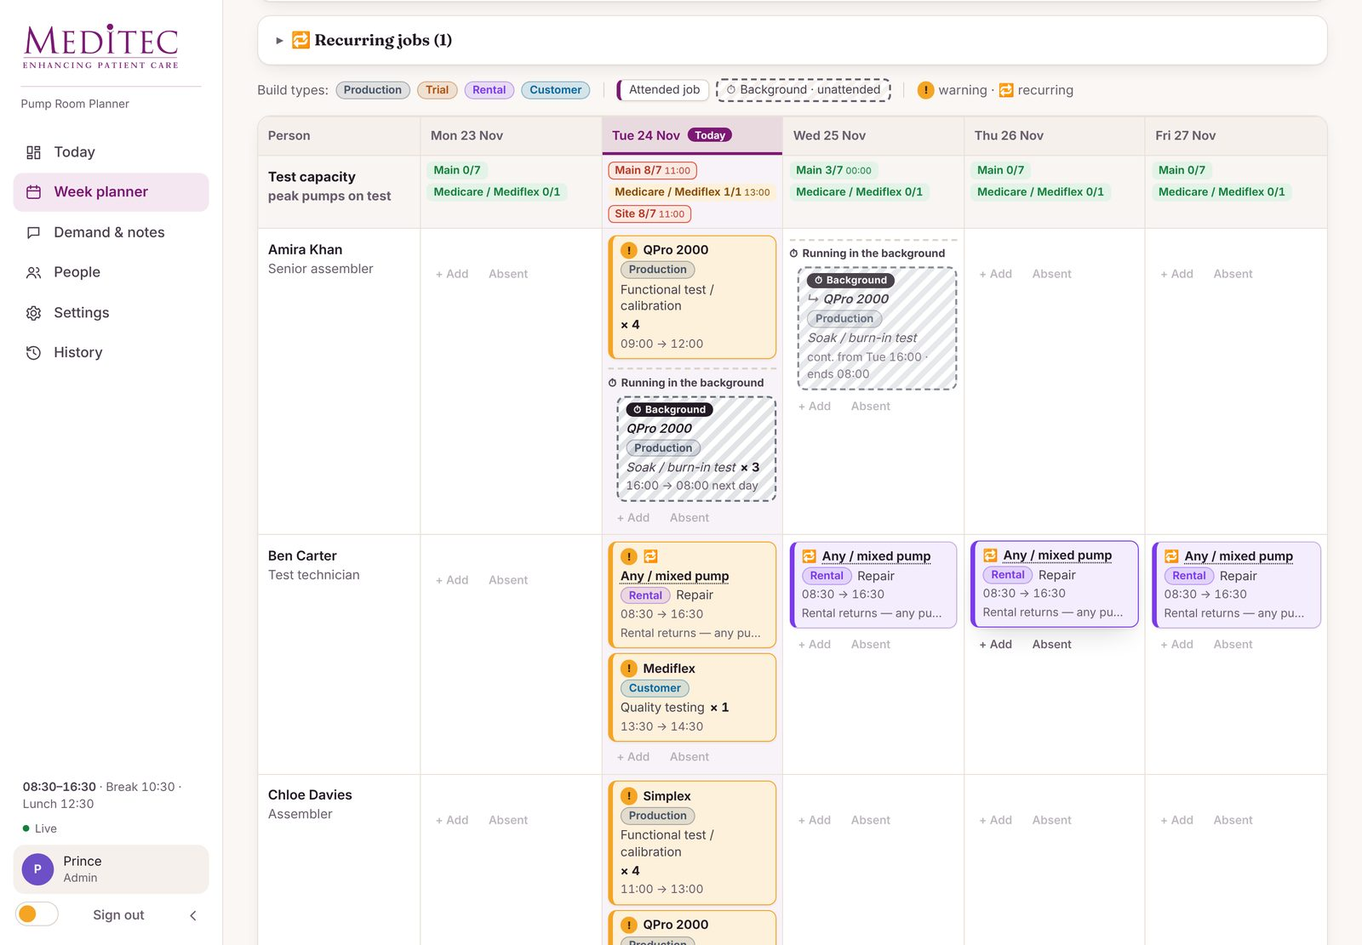
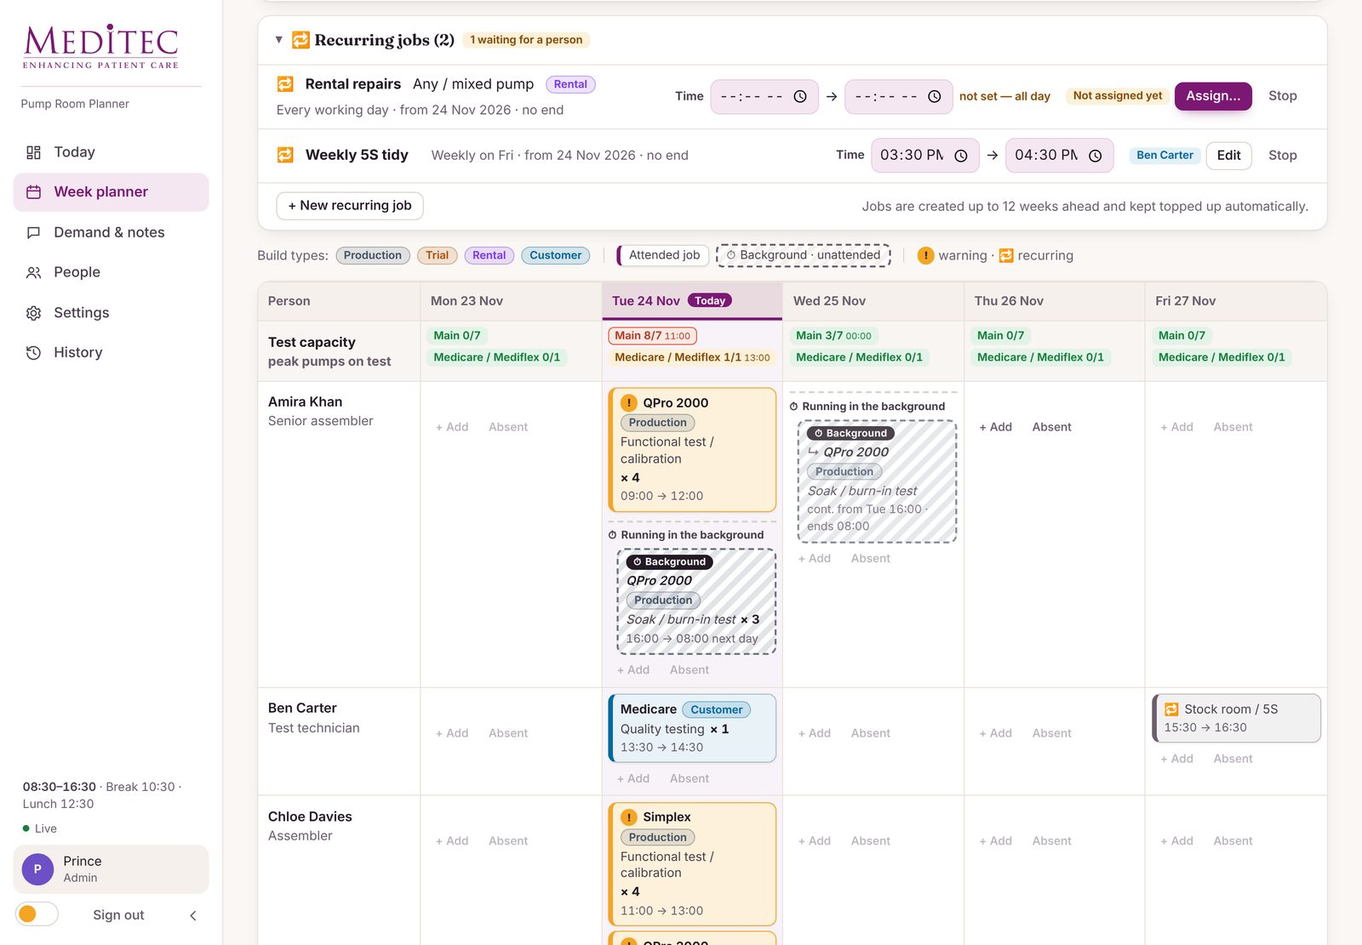
Phase 8 rules: separate test areas, same-pump sharing, recurring times
- No site-wide limit: each test area is separate; Main area max 7 is
  absolute and Medicare/Mediflex does not count towards it
- Calibration + quality testing count once only on the same pump
  (same model); different models add up
- MATS / Bari-Med 1 in no limit group (count towards Main only)
- Rental repairs seeded without times; times set when assigning and
  editable on the recurring panel (from today / all) and per job
  (this one / this and future / all)
- Migration 006 applies these to existing databases without
  overwriting your own Settings; 005 updated for fresh installs
- rls_check.sql: 4 rule checks (104 total); capacity unit tests and
  browser suite updated; [hidden] elements always hidden

Claude-Session: https://claude.ai/code/session_01XNSAvtXNy8aPh6HHrb7pc3

diff --git a/src/pages/settings.js b/src/pages/settings.js
@@ -268,28 +268,19 @@ function editRef(cfg, row, onSaved, nextSortOrder) {
 
 // ----------------------------------------------------- test areas & limits
 async function renderTestAreas(card, reloadAll) {
-  const [areas, limits, limitModels, shared, models, tasks, settings] = await Promise.all([
+  const [areas, limits, limitModels, shared, models, tasks] = await Promise.all([
     supabase.from('test_areas').select('*').order('sort_order').order('name'),
     supabase.from('test_limits').select('*').order('sort_order').order('name'),
     supabase.from('test_limit_models').select('test_limit_id, pump_model_id'),
     supabase.from('test_area_shared_tasks').select('test_area_id, task_id'),
     supabase.from('pump_models').select('id, name, short_code, test_area_id, active').order('sort_order'),
     supabase.from('tasks').select('id, name, is_testing, active').order('sort_order'),
-    supabase.from('app_settings').select('max_pumps_on_test').eq('id', 1).single(),
   ]);
-  const err = [areas, limits, limitModels, shared, models, tasks, settings].find((r) => r.error)?.error;
+  const err = [areas, limits, limitModels, shared, models, tasks].find((r) => r.error)?.error;
   if (reportError(err, 'Loading test areas')) return;
   const modelName = new Map(models.data.map((m) => [m.id, m.name]));
   const taskName = new Map(tasks.data.map((t) => [t.id, t.name]));
   const reload = () => renderTestAreas(card, reloadAll);
-
-  const siteMax = h('input', { type: 'number', min: 1, max: 99, value: settings.data.max_pumps_on_test, style: 'width:5.5rem' });
-  const saveSite = h('button', { class: 'btn btn-sm', onclick: async () => {
-    const v = Number(siteMax.value);
-    if (!Number.isInteger(v) || v < 1) { toast('Enter a whole number of pumps.', 'error'); return; }
-    const { error } = await supabase.from('app_settings').update({ max_pumps_on_test: v }).eq('id', 1);
-    if (!reportError(error, 'Saving')) toast('Site-wide limit saved.', 'success');
-  } }, 'Save');
 
   const areaBlock = (a) => {
     const aModels = models.data.filter((m) => m.test_area_id === a.id).map((m) => m.short_code || m.name);
@@ -298,10 +289,10 @@ async function renderTestAreas(card, reloadAll) {
     return h('div', { class: `area-block ${a.active ? '' : 'inactive'}` },
       h('div', { class: 'area-head' },
         h('div', {},
-          h('b', { class: 'ref-name' }, a.name), h('span', { class: 'tag tag-accent' }, `max ${a.max_pumps} at once`),
+          h('b', { class: 'ref-name' }, a.name), h('span', { class: 'tag tag-accent' }, `max ${a.max_pumps} at once — absolute for this area`),
           a.active ? null : h('span', { class: 'tag tag-muted' }, 'inactive'),
           h('div', { class: 'muted small' }, `Models: ${aModels.join(', ') || 'none yet (set a default test area on each pump model)'}`),
-          aShared.length ? h('div', { class: 'muted small' }, `Counted once when run together: ${aShared.join(' + ')}`) : null,
+          aShared.length ? h('div', { class: 'muted small' }, `Counted once when run together on the same pump: ${aShared.join(' + ')}`) : null,
         ),
         h('div', { class: 'ref-actions' },
           h('button', { class: 'btn btn-sm', onclick: () => editArea(a) }, 'Edit'),
@@ -335,7 +326,7 @@ async function renderTestAreas(card, reloadAll) {
         field('Notes', notes),
         h('fieldset', { class: 'skills-fieldset' }, h('legend', {}, 'Tasks that run together on the same pumps (count once)'),
           h('div', { class: 'check-grid' }, sharedBoxes.map((b) => b.el)),
-          h('p', { class: 'muted small' }, 'E.g. calibration and quality testing on Medicare / Mediflex: running both at once is not a clash.')),
+          h('p', { class: 'muted small' }, 'E.g. calibration and quality testing on the same Medicare or Mediflex pump at the same time count as one pump, not a clash. Different pump models still add up.')),
         active.el, error),
       actions: [{ label: 'Cancel' }, { label: 'Save', variant: 'primary', onClick: async () => {
         const values = { name: name.value.trim(), max_pumps: Number(max.value), notes: notes.value.trim() || null, active: active.input.checked };
@@ -415,8 +406,7 @@ async function renderTestAreas(card, reloadAll) {
     h('div', { class: 'card-head' },
       h('h2', {}, 'Test areas & limits'),
       h('button', { class: 'btn btn-primary btn-sm', onclick: () => editArea(null) }, '+ Add test area')),
-    h('p', { class: 'muted small' }, 'Pumps are tested several at a time. The planner adds up testing jobs (quantity = pumps on test) at overlapping times — including overnight and background jobs — and warns when an area, a limit group or the site-wide maximum is exceeded. Mark testing tasks under Tasks, and give each pump model a default test area.'),
-    h('div', { class: 'site-max' }, h('span', {}, 'All areas together: max'), siteMax, h('span', {}, 'pumps on test at once'), saveSite),
+    h('p', { class: 'muted small' }, 'Pumps are tested several at a time. The planner adds up testing jobs (quantity = pumps on test) at overlapping times — including overnight and background jobs — and warns when an area or a limit group is exceeded. Each area is separate: its maximum is the absolute limit for that area. Models without a limit group (e.g. MATS, Bari-Med 1) just count towards their area. Mark testing tasks under Tasks, and give each pump model a default test area.'),
     areas.data.length ? h('div', { class: 'stack' }, areas.data.map(areaBlock)) : h('p', { class: 'empty' }, 'No test areas yet.'),
   );
 }

diff --git a/src/pages/planner.js b/src/pages/planner.js
@@ -6,7 +6,7 @@ import { loadSummaryDemand, summaryCard } from './summary.js';
 import { isBackground, coversDay, endDateOf, timeLabel, clashes, hm, pumpLabel, ABSENCE_TYPES } from '../jobs.js';
 import { capacityConfig, capacityForDay, level } from '../capacity.js';
 import { describe as describeRepeat, matches as repeatMatches } from '../recurring.js';
-import { editAssignment, editTemplate, deleteTemplate } from './jobEditor.js';
+import { editAssignment, editTemplate, deleteTemplate, saveTemplateTimes } from './jobEditor.js';
 import {
   toISO, fromISO, addDays, mondayOf, today, isoWeek,
   fmtDayShort, fmtDayLong, fmtWeekday, fmtRange, fmtDate,
@@ -52,7 +52,6 @@ export async function loadWeek(monday) {
     limits: supabase.from('test_limits').select('id, test_area_id, name, max_pumps, active, sort_order').order('sort_order').order('name'),
     limitModels: supabase.from('test_limit_models').select('test_limit_id, pump_model_id'),
     shared: supabase.from('test_area_shared_tasks').select('test_area_id, task_id'),
-    settings: supabase.from('app_settings').select('max_pumps_on_test').eq('id', 1).maybeSingle(),
     recurring: supabase.from('recurring_jobs').select('*').eq('active', true).order('created_at'),
   };
   const keys = Object.keys(q);
@@ -77,7 +76,7 @@ export async function loadWeek(monday) {
     areas: r.areas,
     capacity: capacityConfig({
       areas: r.areas, limits: r.limits, limitModels: r.limitModels, sharedTasks: r.shared,
-      models: r.models, tasks: r.tasks, siteMax: r.settings?.max_pumps_on_test ?? 7,
+      models: r.models, tasks: r.tasks,
     }),
   };
 }
@@ -270,9 +269,8 @@ export async function renderPlanner(main) {
     for (const l of c.limits.filter((x) => x.peak > x.max)) {
       pills.push(h('span', { class: 'cap-pill cap-over', title: `${l.limit.name}: ${l.peak} of ${l.max} at ${l.at}` }, `${l.limit.name} ${l.peak}/${l.max}`, h('small', {}, ` ${l.at}`)));
     }
-    if (c.site.peak > c.site.max) pills.push(h('span', { class: 'cap-pill cap-over', title: `All areas together: ${c.site.peak} of ${c.site.max} at ${c.site.at}` }, `Site ${c.site.peak}/${c.site.max}`, h('small', {}, ` ${c.site.at}`)));
     const detail = [...c.limits.map((l) => `${l.limit.name}: peak ${l.peak}/${l.max}${l.peak ? ` at ${l.at}` : ''}`),
-      `All areas: peak ${c.site.peak}/${c.site.max}`, ...[...c.models.values()].map((m) => `${m.name}: ${m.peak} at ${m.at}`)].join('\n');
+      ...[...c.models.values()].map((m) => `${m.name}: ${m.peak} at ${m.at}`)].join('\n');
     return h('div', { class: 'cap-cell', title: detail }, pills.length ? pills : h('span', { class: 'muted small' }, '—'));
   };
   const hasAreas = data.capacity.areas.length > 0;
@@ -385,14 +383,31 @@ function recurringPanel(ctx, personById, reload) {
           const task = ctx.taskById.get(r.task_id);
           const person = personById.get(r.person_id);
           const type = ctx.typeById.get(r.build_type_id);
+          const name = r.title || task?.name || 'Recurring job';
+          const hasJobs = Boolean(r.person_id);
+          let times;
+          if (auth.isAdmin) {
+            const st = h('input', { type: 'time', step: 300, value: hm(r.start_time) ?? '', 'aria-label': `Start time for ${name}` });
+            const et = h('input', { type: 'time', step: 300, value: hm(r.end_time) ?? '', 'aria-label': `End time for ${name}` });
+            const save = h('button', { class: 'btn btn-sm btn-primary', hidden: true,
+              onclick: () => saveTemplateTimes({ template: r, start: st.value, end: et.value, hasJobs, onSaved: reload }) }, 'Save times');
+            const changed = () => { save.hidden = st.value === (hm(r.start_time) ?? '') && et.value === (hm(r.end_time) ?? ''); };
+            st.addEventListener('input', changed); et.addEventListener('input', changed);
+            times = h('div', { class: 'recurring-times' },
+              h('span', { class: 'rt-label' }, 'Time'), st, h('span', { 'aria-hidden': 'true' }, '→'), et, save,
+              !r.start_time ? h('span', { class: 'rt-hint' }, 'not set — all day') : null);
+          } else {
+            times = h('span', { class: 'muted small' }, r.start_time ? `${hm(r.start_time)}–${hm(r.end_time) || '…'}` : 'All day');
+          }
           return h('li', {}, h('div', { class: 'recurring-row' },
             h('div', { class: 'demand-row-main' },
               h('span', { 'aria-hidden': 'true' }, '🔁'),
-              h('b', {}, r.title || task?.name || 'Recurring job'),
+              h('b', {}, name),
               h('span', {}, ctx.pump(r) || ''),
               type ? typeTag(type) : null,
-              h('span', { class: 'muted small' }, `${describeRepeat(r)}${r.start_time ? ` · ${hm(r.start_time)}–${hm(r.end_time) || '…'}` : ''}`),
+              h('span', { class: 'muted small' }, describeRepeat(r)),
             ),
+            times,
             h('div', { class: 'demand-badges' },
               person ? h('span', { class: 'status status-planned' }, person.name) : h('span', { class: 'status status-unassigned' }, 'Not assigned yet'),
               auth.isAdmin ? h('button', { class: `btn btn-sm ${person ? '' : 'btn-primary'}`, onclick: () => editTemplate({ ctx, template: r, personById, onSaved: reload }) }, person ? 'Edit' : 'Assign…') : null,

diff --git a/src/capacity.js b/src/capacity.js
@@ -6,12 +6,16 @@
 // jobs count like any other.
 //
 // Inside an area, tasks marked as sharing pumps (e.g. calibration + quality
-// testing on Medicare / Mediflex) run on the same pumps: together they count as
-// the largest of them, not the sum.
+// testing on Medicare / Mediflex) run on the SAME pump at the same time: for the
+// same pump model they count as the largest of them, not the sum. Different
+// models are different pumps and do add up.
+//
+// Each area's maximum is absolute for that area (Main test area: 7). Areas are
+// separate — there is no limit across areas.
 import { intervalOf } from './jobs.js';
 
 /** Build the lookup structure from loaded rows. */
-export function capacityConfig({ areas = [], limits = [], limitModels = [], sharedTasks = [], models = [], tasks = [], siteMax = 7 }) {
+export function capacityConfig({ areas = [], limits = [], limitModels = [], sharedTasks = [], models = [], tasks = [] }) {
   const modelArea = new Map(models.filter((m) => m.test_area_id).map((m) => [m.id, m.test_area_id]));
   const shared = new Map();
   for (const s of sharedTasks) {
@@ -29,14 +33,13 @@ export function capacityConfig({ areas = [], limits = [], limitModels = [], shar
     modelArea,
     modelName: new Map(models.map((m) => [m.id, m.short_code || m.name])),
     testing: new Set(tasks.filter((t) => t.is_testing).map((t) => t.id)),
-    siteMax,
   };
 }
 
 export const isTestingJob = (j, cfg) =>
   cfg.testing.has(j.task_id) && j.pump_model_id && cfg.modelArea.has(j.pump_model_id) && (j.qty_target || 0) > 0;
 
-/** Pumps on test among `active` jobs that pass `keep` (shared tasks count once per area). */
+/** Pumps on test among `active` jobs that pass `keep` (shared tasks count once per area and pump model). */
 function count(active, cfg, keep) {
   let total = 0;
   const sharedMax = new Map();
@@ -44,7 +47,8 @@ function count(active, cfg, keep) {
     if (!keep(j)) continue;
     const area = cfg.modelArea.get(j.pump_model_id);
     const q = j.qty_target || 0;
-    if (cfg.shared.get(area)?.has(j.task_id)) sharedMax.set(area, Math.max(sharedMax.get(area) || 0, q));
+    const key = `${area}|${j.pump_model_id}`;
+    if (cfg.shared.get(area)?.has(j.task_id)) sharedMax.set(key, Math.max(sharedMax.get(key) || 0, q));
     else total += q;
   }
   for (const v of sharedMax.values()) total += v;
@@ -58,7 +62,7 @@ const hhmmOf = (minutesSinceEpoch) => {
 
 /**
  * Peaks within [from, to) (minutes since epoch, as from intervalOf).
- * Returns { site, areas[], limits[], models: Map, jobMsgs: Map(jobId -> [messages]) }.
+ * Returns { areas[], limits[], models: Map, jobMsgs: Map(jobId -> [messages]) }.
  */
 export function capacityInWindow(jobs, cfg, from, to) {
   const tj = [];
@@ -69,7 +73,6 @@ export function capacityInWindow(jobs, cfg, from, to) {
   }
   const pts = [...new Set([from, ...tj.map((x) => x.s), ...tj.map((x) => x.e)])].filter((p) => p >= from && p < to).sort((a, b) => a - b);
 
-  const site = { peak: 0, at: null, max: cfg.siteMax };
   const areas = cfg.areas.map((a) => ({ area: a, peak: 0, at: null, max: a.max_pumps }));
   const limits = cfg.limits.map((l) => ({ limit: l, area: cfg.areaById.get(l.test_area_id), peak: 0, at: null, max: l.max_pumps }));
   const models = new Map();
@@ -87,10 +90,6 @@ export function capacityInWindow(jobs, cfg, from, to) {
     const active = tj.filter((x) => x.s <= p && x.e > p).map((x) => x.j);
     if (!active.length) continue;
     const at = hhmmOf(p);
-
-    const total = count(active, cfg, () => true);
-    if (total > site.peak) Object.assign(site, { peak: total, at });
-    if (total > cfg.siteMax) flag(active, () => true, `Site limit: ${total} pumps on test at ${at} (max ${cfg.siteMax})`);
 
     for (const a of areas) {
       const inArea = (j) => cfg.modelArea.get(j.pump_model_id) === a.area.id;
@@ -110,7 +109,7 @@ export function capacityInWindow(jobs, cfg, from, to) {
       if (!cur || n > cur.peak) models.set(m, { peak: n, at, name: cfg.modelName.get(m) });
     }
   }
-  return { site, areas, limits, models, jobMsgs };
+  return { areas, limits, models, jobMsgs };
 }
 
 /** Capacity for one calendar day ("YYYY-MM-DD"). */

diff --git a/src/pages/jobEditor.js b/src/pages/jobEditor.js
@@ -470,10 +470,13 @@ export function editTemplate({ ctx, template, personById, onSaved }) {
     title: template ? (template.person_id ? '🔁 Edit recurring job' : '🔁 Assign recurring job') : '🔁 New recurring job',
     body: h('div', { class: 'stack' },
       h('div', { class: 'form-grid form-grid-2' }, field('Name', title), field('Person', personSel, 'Jobs are created once a person is chosen.')),
+      h('div', { class: 'form-grid form-grid-2 times-first' },
+        field('Start time', startTime, 'Set the time yourself — leave empty for all day.'),
+        field('End time', endTime, 'Earlier than start = runs overnight.')),
       field('Task / operation', taskSel),
       h('div', { class: 'form-grid form-grid-2' }, field('Pump model', pumps.modelSel), field('Build type', typeSel)),
       pumps.mixBox,
-      h('div', { class: 'form-grid form-grid-3' }, field('Quantity', qty), field('Start time', startTime), field('End time', endTime)),
+      field('Quantity', qty),
       h('div', { class: 'form-grid form-grid-2' }, field('Runs', bgSel), field('Equipment', equipSel)),
       h('fieldset', { class: 'skills-fieldset' }, h('legend', {}, 'Repeat'), field('Starts on', startDate), repeat.el),
       field('Notes', notes),
@@ -536,4 +539,39 @@ export async function deleteTemplate({ template, onDone }) {
   if (reportError(error, 'Stopping')) return;
   toast('Recurring job stopped.', 'success');
   onDone();
+}
+
+/** Change the times of a recurring job from the 🔁 panel. */
+export async function saveTemplateTimes({ template, start, end, hasJobs, onSaved }) {
+  if (end && !start) { toast('Add a start time (or clear the end time).', 'error'); return; }
+  const times = { start_time: start || null, end_time: end || null };
+  let scope = 'template';
+  if (hasJobs) {
+    scope = await new Promise((resolve) => {
+      let done = false;
+      const pickScope = (v) => () => { done = true; resolve(v); };
+      const { dialog } = openModal({
+        title: 'Change times',
+        body: h('div', { class: 'stack-sm' },
+          h('p', {}, `New times for “${template.title || 'Recurring job'}”: ${start || 'all day'}${end ? ` – ${end}` : ''}.`),
+          h('p', { class: 'muted small' }, 'Jobs you changed individually (“this one only”) keep their own times. To change just one day, open that job in the planner.')),
+        actions: [
+          { label: 'Cancel', onClick: pickScope(null) },
+          { label: 'From today onwards', onClick: pickScope('future') },
+          { label: 'All jobs in the series', variant: 'primary', onClick: pickScope('all') },
+        ],
+      });
+      dialog.addEventListener('close', () => { if (!done) resolve(null); });
+    });
+    if (!scope) return;
+  }
+  let { error } = await supabase.from('recurring_jobs').update(times).eq('id', template.id);
+  if (!error && scope !== 'template') {
+    let q = supabase.from('assignments').update(times).eq('recurring_id', template.id).eq('recurring_detached', false);
+    if (scope === 'future') q = q.gte('recurring_date', toISO(today()));
+    ({ error } = await q);
+  }
+  if (reportError(error, 'Saving times')) return;
+  toast(scope === 'future' ? 'Times changed from today onwards.' : scope === 'all' ? 'Times changed for the whole series.' : 'Times saved.', 'success');
+  onSaved();
 }

diff --git a/src/styles.css b/src/styles.css
@@ -55,6 +55,7 @@
 
 /* ---------------------------------------------------------------- base */
 * { box-sizing: border-box; }
+[hidden] { display: none !important; }
 html, body { margin: 0; }
 body {
   background: var(--bg); color: var(--text);
@@ -728,7 +729,6 @@ button.absence { cursor: pointer; }
 .mix-item input { width: 4.2rem; padding: .3rem .45rem; }
 
 /* settings: test areas */
-.site-max { display: flex; align-items: center; gap: .5rem; flex-wrap: wrap; margin: .6rem 0 1rem; font-size: .92rem; }
 .area-block { border: 1px solid var(--line); border-radius: 12px; padding: .8rem 1rem; }
 .area-block.inactive { opacity: .6; }
 .area-head { display: flex; justify-content: space-between; align-items: flex-start; gap: .5rem 1rem; flex-wrap: wrap; }
@@ -741,3 +741,10 @@ button.absence { cursor: pointer; }
   .cap-pill { font-size: 6.5pt; padding: 0 1mm; }
   .recurring-panel { display: none !important; }
 }
+
+/* recurring panel: editable times */
+.recurring-times { display: flex; align-items: center; gap: .4rem; flex-wrap: wrap; }
+.recurring-times input[type=time] { width: 7.2rem; padding: .32rem .5rem; font-variant-numeric: tabular-nums; border-color: var(--brand-line); background: var(--brand-soft); }
+.recurring-times .rt-label { font-size: .78rem; font-weight: 650; color: var(--ink-2); }
+.recurring-times .rt-hint { font-size: .76rem; color: var(--amber); font-weight: 600; }
+.times-first { padding: .6rem .7rem; border-radius: 12px; background: var(--brand-soft); border: 1px solid var(--brand-line); }

diff --git a/src/pages/today.js b/src/pages/today.js
@@ -326,8 +326,7 @@ export async function renderToday(main) {
             h('div', { class: 'ta-bar' }, fillEl),
             h('div', { class: `ta-peak cap-${level(a.peak, a.max)}` }, a.peak ? `Peak today ${a.peak}/${a.max} at ${a.at}` : 'Nothing on test today'));
         }),
-        capToday.limits.filter((l) => l.peak > l.max).map((l) => h('p', { class: 'warn-box' }, `⚠ ${l.limit.name}: ${l.peak}/${l.max} at ${l.at}`)),
-        capToday.site.peak > capToday.site.max ? h('p', { class: 'warn-box' }, `⚠ All areas together: ${capToday.site.peak}/${capToday.site.max} at ${capToday.site.at}`) : null)
+        capToday.limits.filter((l) => l.peak > l.max).map((l) => h('p', { class: 'warn-box' }, `⚠ ${l.limit.name}: ${l.peak}/${l.max} at ${l.at}`)))
       : h('p', { class: 'muted' }, auth.isAdmin ? 'Set up test areas in Settings.' : 'No test areas set up.'),
   );
   const updateTestNow = (m) => {

diff --git a/README.md b/README.md
@@ -34,8 +34,9 @@ Live site (once deployed): `https://meditecmedicalai-gif.github.io/meditec-produ
    [`003_background_jobs.sql`](supabase/migrations/003_background_jobs.sql) (background / overnight jobs, equipment), then
    [`004_realtime.sql`](supabase/migrations/004_realtime.sql) (live updates; refreshed build-type colours), then
    [`005_capacity_recurring.sql`](supabase/migrations/005_capacity_recurring.sql) (test capacity, "Any / mixed pump",
-   recurring jobs). Its last result column says **Live updates: OK** — or lists tables to switch on by hand (see
-   *Live updates* below).
+   recurring jobs; its last result column says **Live updates: OK** — or lists tables to switch on by hand, see
+   *Live updates* below), then [`006_capacity_rules.sql`](supabase/migrations/006_capacity_rules.sql) (agreed
+   capacity rules; never overwrites your own Settings).
 
 ### 3. Lock down sign-in
 1. **Authentication → Sign In / Providers** (called *Providers* in some versions):
@@ -183,12 +184,14 @@ Pumps are tested several at a time, so the planner adds up **testing jobs** that
 - **Testing tasks** are marked in Settings → Tasks (🧪): Functional test / calibration, Quality testing,
   Soak / burn-in test. For these, **quantity = number of pumps on test**.
 - Each **pump model has a default test area** (Settings → Pump models).
-- **Test areas** (Settings → Test areas & limits) each have a maximum: *Main test area* 7 (QPro 2000,
-  Simplex, MediAir, MediAir Turn, MATS, Bari-Med 1) and *Medicare / Mediflex test area* 1.
-- **Limit groups** inside an area: QPro 2000 max 7; MediAir + Simplex max 6 combined; MediAir Turn max 3.
-- **Tasks that share pumps**: in the Medicare / Mediflex area, calibration and quality testing can run at
-  the same time — together they count once, not as a clash.
-- **All areas together**: max 7 pumps on test at once (editable).
+- **Test areas** (Settings → Test areas & limits) are **separate**, each with its own absolute maximum:
+  *Main test area* **7** (QPro 2000, Simplex, MediAir, MediAir Turn, MATS, Bari-Med 1) and
+  *Medicare / Mediflex test area* **1**. The Medicare / Mediflex area does not count towards the Main 7, and
+  there is no limit across areas.
+- **Limit groups** inside the Main area: QPro 2000 max 7; MediAir + Simplex max 6 combined; MediAir Turn max 3.
+  MATS and Bari-Med 1 have no group of their own — they just count towards the Main area's 7.
+- **Same pump, two tasks**: in the Medicare / Mediflex area, calibration and quality testing on the **same pump
+  at the same time** count as one pump (no clash). A Medicare and a Mediflex at the same time are two pumps.
 - Times come from the jobs (overnight and background jobs included); a testing job **without times counts all
   day**, so add times for accurate figures.
 - Where you see it: a **Test capacity** row at the top of each day in the planner ("Main 6/7 14:00"; amber =
@@ -205,8 +208,11 @@ be for "Any / mixed pump".
 - In **Add work**, choose **Repeat**: every working day, every day, weekly on chosen days, or every N weeks;
   with a *Repeat until* date or no end. Jobs are created **12 weeks ahead** and topped up automatically.
 - A recurring job can be saved **without a person** ("Not assigned yet"). The **🔁 Recurring jobs** panel on
-  the Week planner lists them — use **Assign…** to pick a person and the jobs are created. Migration 005 adds
-  a ready-made **Rental repairs** (Any pump, Rental, every working day, shift hours) waiting to be assigned.
+  the Week planner lists them — use **Assign…** to pick a person **and set the start / end time**, and the jobs
+  are created. Migration 005 adds a ready-made **Rental repairs** (Any pump, Rental, every working day, no
+  times yet) waiting to be assigned.
+- **Times** can be changed any time: on the 🔁 panel (the time boxes on each row → *From today onwards* or
+  *All jobs in the series*), or by opening one job in the planner → *This one only / This and future / All*.
 - Recurring jobs show **🔁**. Days when the person is absent are **skipped and flagged** in the planner.
 - Editing or deleting one asks **This one only / This and future / All**.
 - **Copy last week** never copies recurring jobs (they repeat by themselves).
